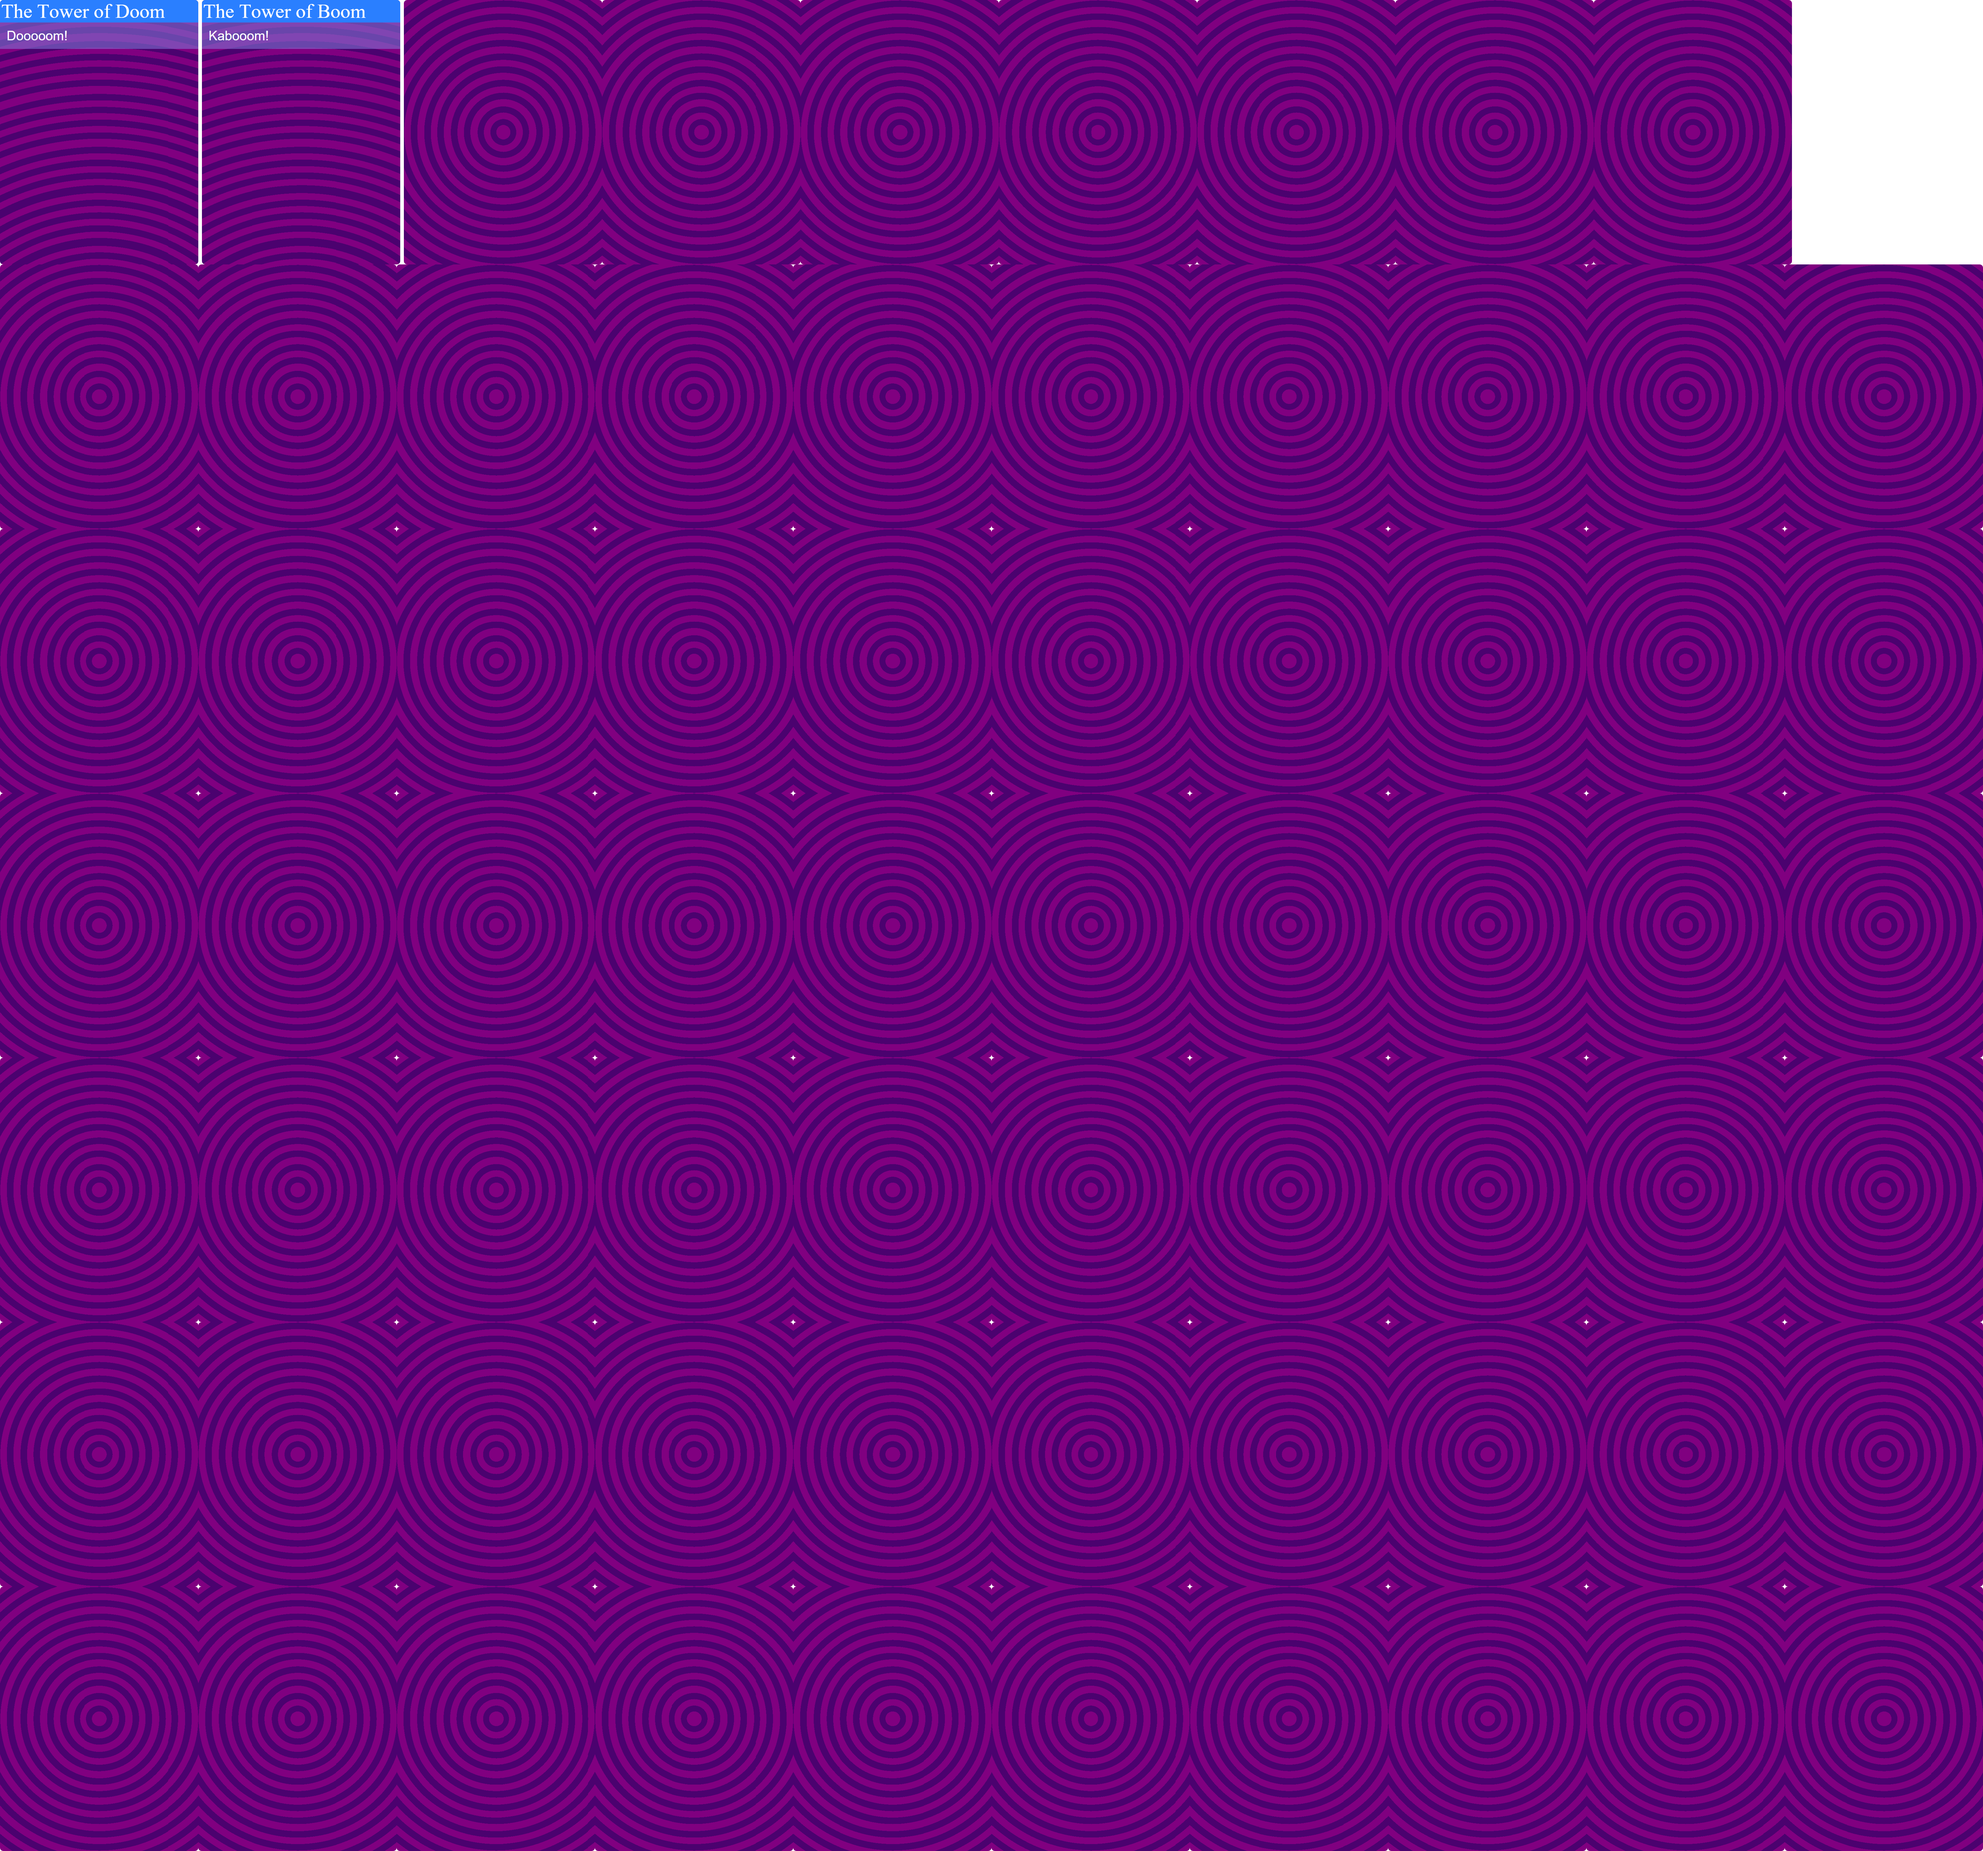
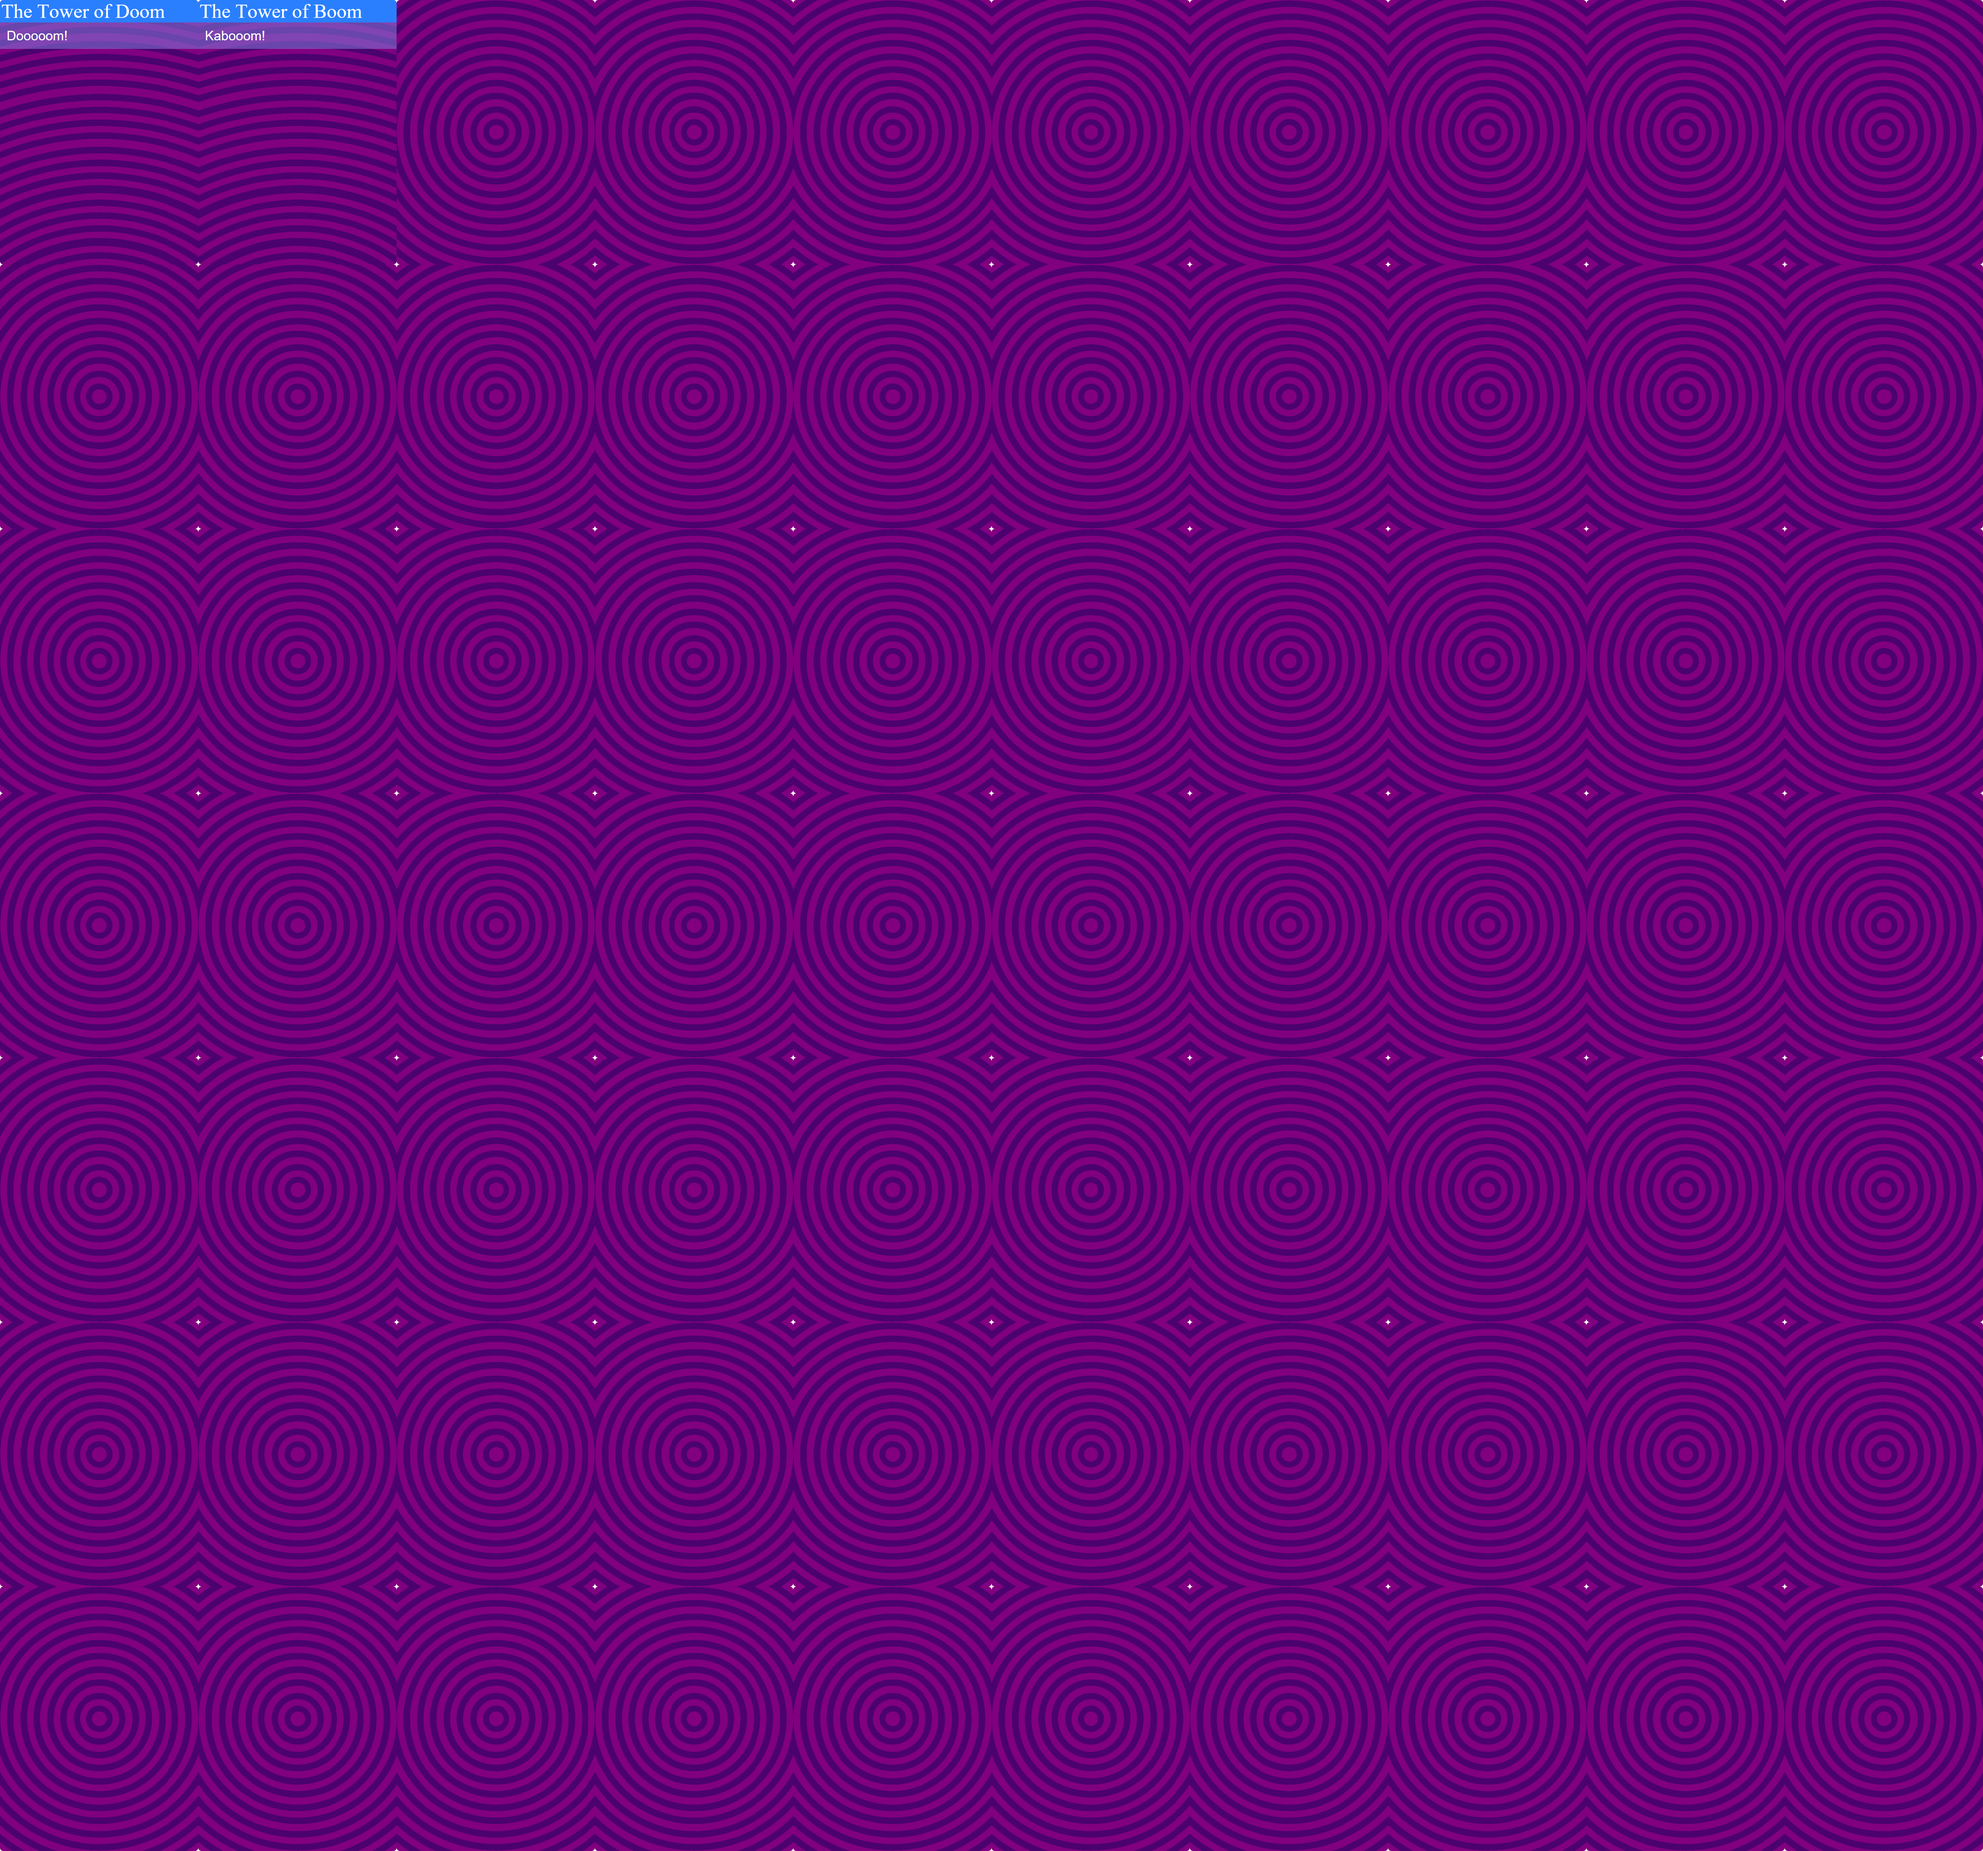
Fix margin caused by whitespace in the template

Changed region(s): [[0.0935, 0.0, 1.0, 0.1562]]

diff --git a/index.html b/index.html
@@ -59,7 +59,7 @@
 						container.appendChild(h2);
 						for(var i = 0; i < cards_in_set.length; i++){
 							var card = cards_in_set[i];
-							container.innerHTML += card_template(card);
+							container.innerHTML += card_template(card).trim();
 						}
 						if(export_only){
 							while(i < 10*7){
